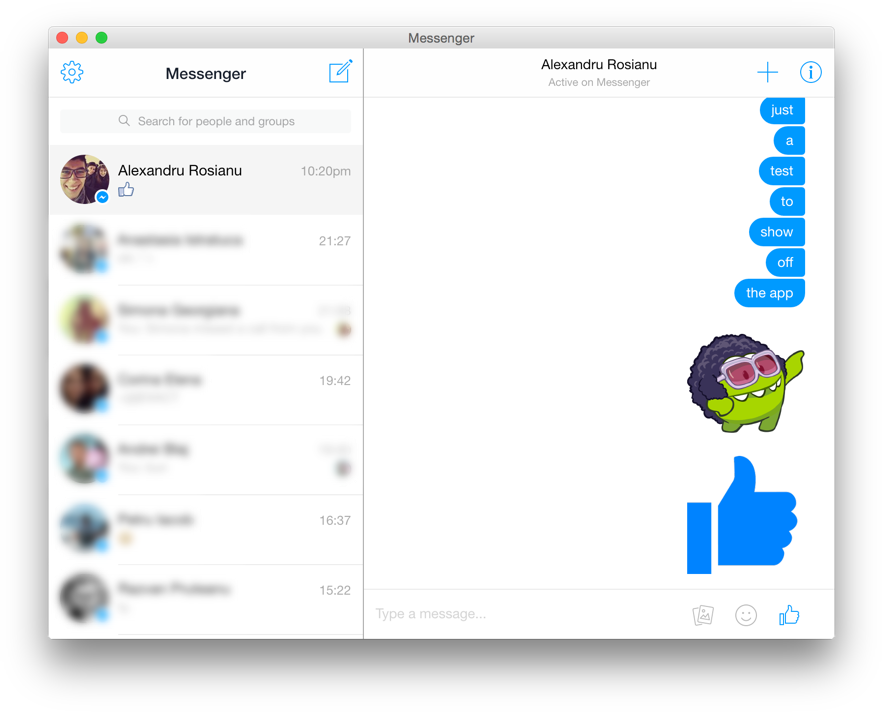
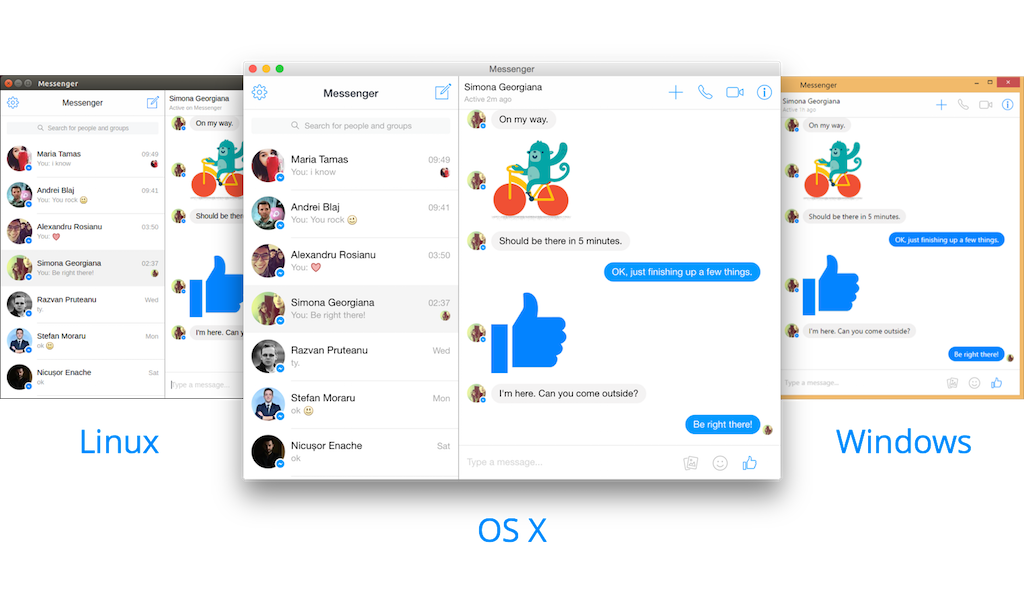
Adds notifications badge osx/win

diff --git a/src/app.html b/src/app.html
@@ -1,0 +1,13 @@
+<script>
+  var gui = require('nw.gui');
+  var win = gui.Window.get();
+
+  var menu = new gui.Menu({ type: 'menubar' });
+  if (menu.createMacBuiltin) {
+    menu.createMacBuiltin('Messenger');
+  }
+  win.menu = menu;
+
+  process.mainModule.exports.watch(win);
+  document.location = 'https://www.messenger.com/login';
+</script>

diff --git a/src/main.js b/src/main.js
@@ -1,0 +1,16 @@
+var attached = false;
+
+exports.watch = function(win) {
+  if (attached) {
+    return;
+  } else {
+    attached = true;
+  }
+
+  var titleRegExp = /\((\d)\)/;
+  setInterval(function() {
+    var match = titleRegExp.exec(win.title);
+    var label = match && match[1] || '';
+    win.setBadgeLabel(label);
+  }, 250);
+};

diff --git a/build.js b/build.js
@@ -1,7 +1,7 @@
 var NwBuilder = require('node-webkit-builder');
 var nw = new NwBuilder({
   files: './src/**',
-  platforms: ['win', 'osx', 'linux'],
+  platforms: ['win32', 'osx64', 'linux32', 'linux64'],
   macIcns: './app_icon.icns'
 });
 

diff --git a/README.md b/README.md
@@ -2,23 +2,14 @@
 
 Bring [messenger.com](https://messenger.com) to your OS X, Windows or Linux desktop. Built with [NW.js](http://nwjs.io/).
 
-![OS X Screenshot](screenshot.png)
+![Cross-platform screenshot](screenshot.png)
 
 ## Features
 
 * **Sounds** (can be disabled in settings)
 * **Desktop notifications** (enable them in settings)
 * **Voice and video calls**
-* Basically, everything works :)
-
-## Download
-
-* [OS X 32](https://github.com/Aluxian/Facebook-Messenger-Desktop/releases/download/v1.0.0/osx32.zip)
-* [OS X 64](https://github.com/Aluxian/Facebook-Messenger-Desktop/releases/download/v1.0.0/osx64.zip)
-* [Windows 32](https://github.com/Aluxian/Facebook-Messenger-Desktop/releases/download/v1.0.0/win32.zip)
-* [Windows 64](https://github.com/Aluxian/Facebook-Messenger-Desktop/releases/download/v1.0.0/win64.zip)
-* [Linux 32](https://github.com/Aluxian/Facebook-Messenger-Desktop/releases/download/v1.0.0/linux32.zip)
-* [Linux 64](https://github.com/Aluxian/Facebook-Messenger-Desktop/releases/download/v1.0.0/linux64.zip)
+* **Badge with the number of notifications (OS X and Windows)**
 
 ## Build
 
@@ -29,5 +20,5 @@ Bring [messenger.com](https://messenger.com) to your OS X, Windows or Linux desk
 
 * Create an installer for Windows
 * Change the app icon for Linux
-* Launch on os startup
-* OS X: Dock app badge
+* Launch on OS startup
+* Preferences menu
